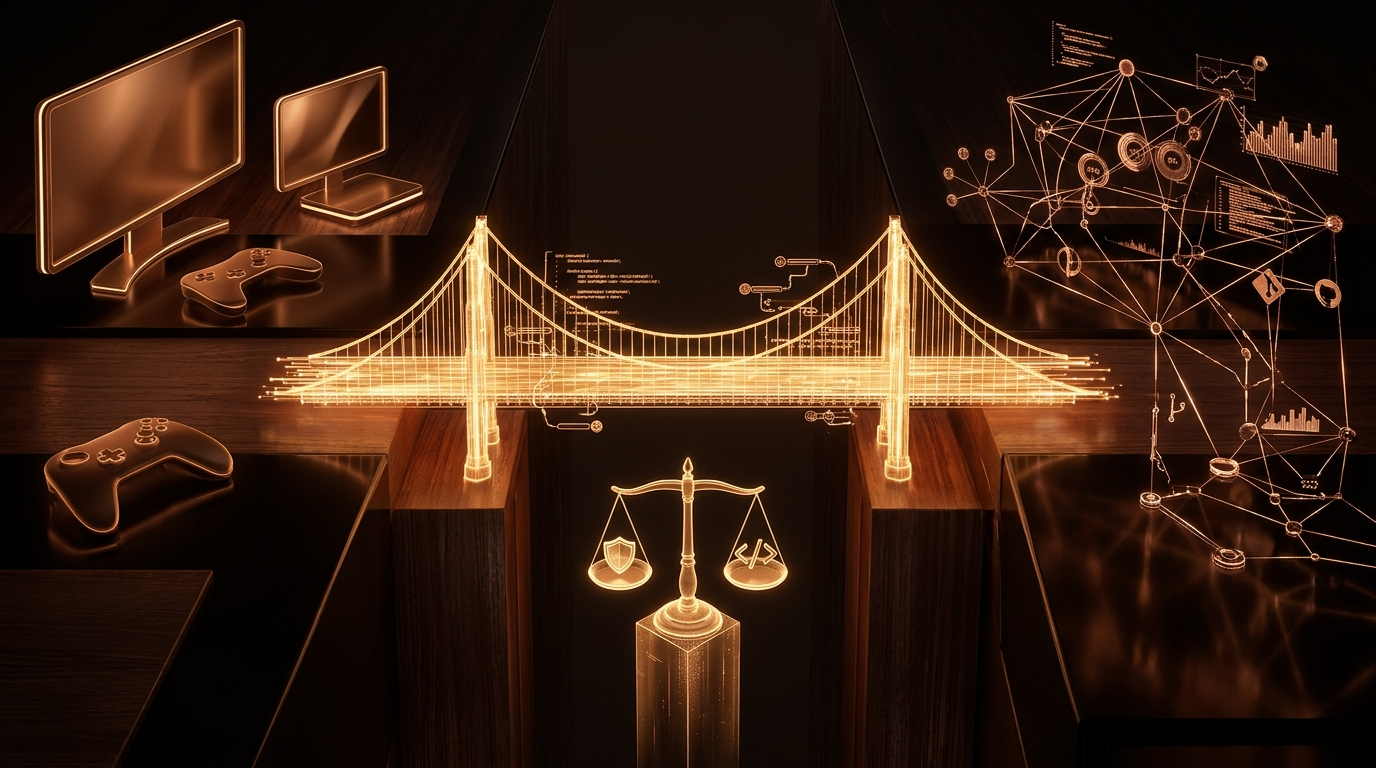
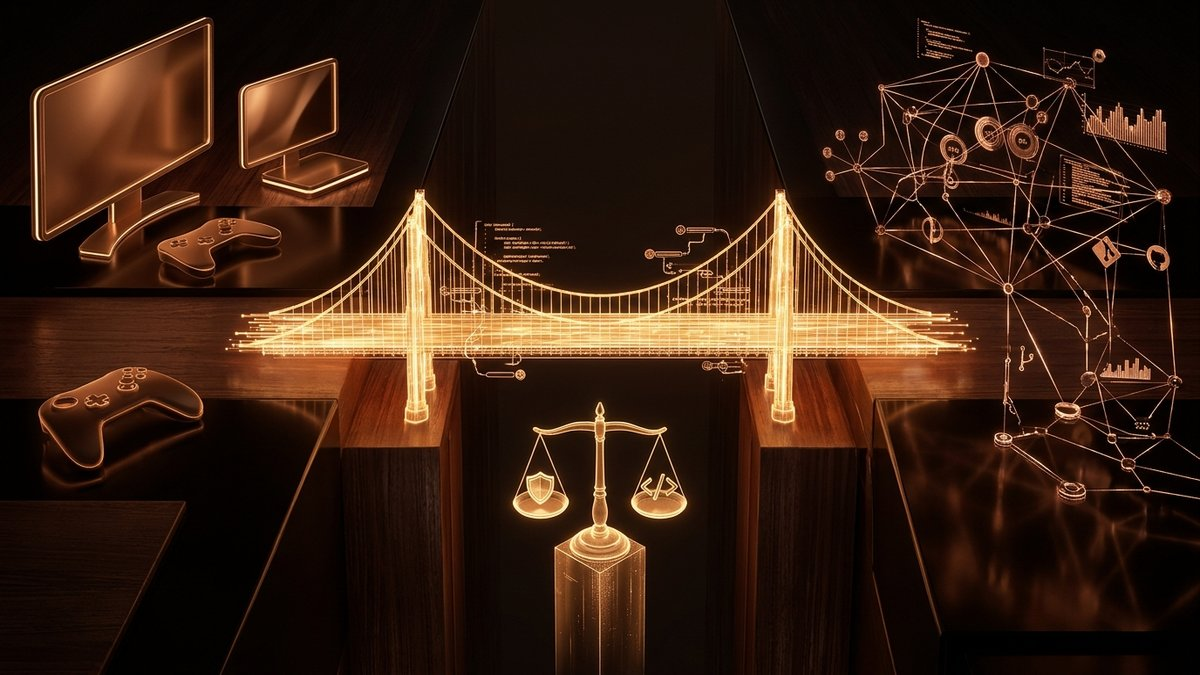
fix(seo): add complete Open Graph image meta tags and optimize cover image sizes for WhatsApp preview

diff --git a/src/utils/seo.ts b/src/utils/seo.ts
@@ -3,6 +3,7 @@ interface SeoProps {
   description: string;
   canonicalPath?: string;
   ogType?: 'website' | 'article';
+  image?: string;
   jsonLd?: Record<string, unknown>;
 }
 
@@ -11,11 +12,17 @@ export function updatePageSeo({
   description,
   canonicalPath = '/',
   ogType = 'website',
+  image = '/assets/img/blog-bridgeplay.jpg',
   jsonLd,
 }: SeoProps): void {
   document.title = title;
 
-  const setMeta = (selector: string, attr: 'name' | 'property', key: string, content: string) => {
+  const setMeta = (
+    selector: string,
+    attr: 'name' | 'property',
+    key: string,
+    content: string
+  ) => {
     let el = document.querySelector<HTMLMetaElement>(selector);
     if (!el) {
       el = document.createElement('meta');
@@ -25,12 +32,31 @@ export function updatePageSeo({
     el.setAttribute('content', content);
   };
 
+  const canonicalUrl = `https://kanakoding.com${canonicalPath}`;
+  const absoluteImageUrl = image.startsWith('http')
+    ? image
+    : `https://kanakoding.com${image}`;
+  const imageType = absoluteImageUrl.endsWith('.png') ? 'image/png' : 'image/jpeg';
+
   setMeta('meta[name="description"]', 'name', 'description', description);
+  setMeta('meta[property="og:site_name"]', 'property', 'og:site_name', 'KanaKoding');
   setMeta('meta[property="og:title"]', 'property', 'og:title', title);
   setMeta('meta[property="og:description"]', 'property', 'og:description', description);
   setMeta('meta[property="og:type"]', 'property', 'og:type', ogType);
+  setMeta('meta[property="og:url"]', 'property', 'og:url', canonicalUrl);
+  setMeta('meta[property="og:image"]', 'property', 'og:image', absoluteImageUrl);
+  setMeta('meta[property="og:image:secure_url"]', 'property', 'og:image:secure_url', absoluteImageUrl);
+  setMeta('meta[property="og:image:type"]', 'property', 'og:image:type', imageType);
+  setMeta('meta[property="og:image:width"]', 'property', 'og:image:width', '1200');
+  setMeta('meta[property="og:image:height"]', 'property', 'og:image:height', '675');
+  setMeta('meta[property="og:image:alt"]', 'property', 'og:image:alt', title);
 
-  const canonicalUrl = `https://kanakoding.com${canonicalPath}`;
+  setMeta('meta[name="twitter:card"]', 'name', 'twitter:card', 'summary_large_image');
+  setMeta('meta[name="twitter:site"]', 'name', 'twitter:site', '@kanakoding');
+  setMeta('meta[name="twitter:title"]', 'name', 'twitter:title', title);
+  setMeta('meta[name="twitter:description"]', 'name', 'twitter:description', description);
+  setMeta('meta[name="twitter:image"]', 'name', 'twitter:image', absoluteImageUrl);
+
   let canonicalEl = document.querySelector<HTMLLinkElement>('link[rel="canonical"]');
   if (!canonicalEl) {
     canonicalEl = document.createElement('link');

diff --git a/index.html b/index.html
@@ -16,6 +16,25 @@
       name="description"
       content="KanaKoding adalah mitra transformasi digital, software house, dan konsultan arsitektur IT di Indonesia. Wujudkan produk digital dan sistem bisnis Anda bersama kami."
     />
+    <link rel="canonical" href="https://kanakoding.com/" />
+    <!-- Open Graph / WhatsApp / Facebook -->
+    <meta property="og:site_name" content="KanaKoding" />
+    <meta property="og:type" content="website" />
+    <meta property="og:url" content="https://kanakoding.com/" />
+    <meta property="og:title" content="KanaKoding — Digitally Yours | Software House, Konsultan IT & Produk Digital" />
+    <meta property="og:description" content="KanaKoding adalah mitra transformasi digital, software house, dan konsultan arsitektur IT di Indonesia. Wujudkan produk digital dan sistem bisnis Anda bersama kami." />
+    <meta property="og:image" content="https://kanakoding.com/assets/img/blog-bridgeplay.jpg" />
+    <meta property="og:image:secure_url" content="https://kanakoding.com/assets/img/blog-bridgeplay.jpg" />
+    <meta property="og:image:type" content="image/jpeg" />
+    <meta property="og:image:width" content="1200" />
+    <meta property="og:image:height" content="675" />
+    <meta property="og:image:alt" content="KanaKoding Studio & Catatan Rekayasa Software" />
+    <!-- Twitter Card -->
+    <meta name="twitter:card" content="summary_large_image" />
+    <meta name="twitter:site" content="@kanakoding" />
+    <meta name="twitter:title" content="KanaKoding — Digitally Yours | Software House, Konsultan IT & Produk Digital" />
+    <meta name="twitter:description" content="KanaKoding adalah mitra transformasi digital, software house, dan konsultan arsitektur IT di Indonesia. Wujudkan produk digital dan sistem bisnis Anda bersama kami." />
+    <meta name="twitter:image" content="https://kanakoding.com/assets/img/blog-bridgeplay.jpg" />
     <link rel="preconnect" href="https://fonts.googleapis.com" />
     <link rel="preconnect" href="https://fonts.gstatic.com" crossorigin />
     <link

diff --git a/src/pages/BlogPostPage.tsx b/src/pages/BlogPostPage.tsx
@@ -143,6 +143,7 @@ export const BlogPostPage: React.FC = () => {
         description: post.excerpt,
         canonicalPath: `/blog/${post.slug}`,
         ogType: 'article',
+        image: post.coverImage,
         jsonLd: {
           '@context': 'https://schema.org',
           '@type': 'TechArticle',

diff --git a/src/content/blog/10-arsitektur-seo-teknis-spa-react-vite.md b/src/content/blog/10-arsitektur-seo-teknis-spa-react-vite.md
@@ -7,7 +7,7 @@ date: "26 Oktober 2026"
 readTime: "9 menit baca"
 author: "KanaKoding Core Dev"
 authorRole: "Frontend & SEO Specialist"
-coverImage: "/assets/img/bg_kanakoding.png"
+coverImage: "/assets/img/bg_kanakoding.jpg"
 featured: false
 tags: ["SEO", "React", "Vite", "JSON-LD", "Google Search"]
 ---

diff --git a/src/content/blog/02-modernisasi-web-vite.md b/src/content/blog/02-modernisasi-web-vite.md
@@ -7,7 +7,7 @@ date: "10 Oktober 2026"
 readTime: "8 menit baca"
 author: "KanaKoding Core Dev"
 authorRole: "Frontend Architecture"
-coverImage: "/assets/img/bg_kanakoding.png"
+coverImage: "/assets/img/bg_kanakoding.jpg"
 featured: false
 tags: ["Vite", "React", "Tailwind CSS", "Web Performance"]
 ---
